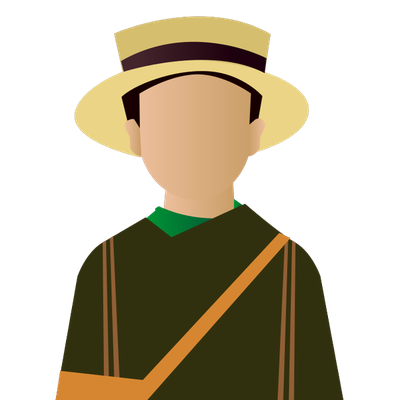
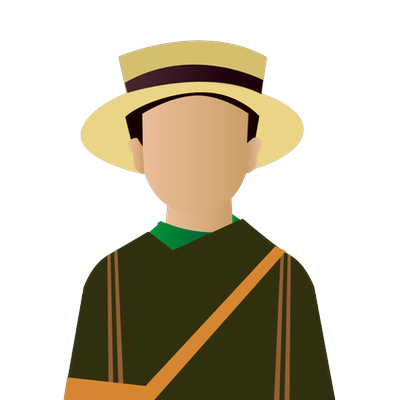
Avatares centrados y completamente visibles, fondo blanco
Claude-Session: https://claude.ai/code/session_01MyWHYMvAypienY2eVWBNv2

Changed region(s): [[0.12, 0.03, 0.87, 1.0]]

diff --git a/src/styles.css b/src/styles.css
@@ -80,7 +80,7 @@ h1, h2, h3, h4, p { margin: 0; }
 
 /* ---------- avatar ---------- */
 .avatar { display: inline-grid; place-items: center; border-radius: 50%; overflow: hidden; background: #fff; flex: none; }
-.avatar img { width: 100%; height: 100%; object-fit: cover; transform: scale(1.12) translateY(5%); }
+.avatar img { width: 100%; height: 100%; object-fit: contain; }
 .avatar.ring { box-shadow: 0 0 0 3px #fff, 0 2px 8px rgba(0,0,0,.2); }
 
 /* ---------- tab bar ---------- */
@@ -167,7 +167,7 @@ h1, h2, h3, h4, p { margin: 0; }
 .setup-strip { display: flex; gap: 10px; overflow-x: auto; padding: 10px 40%; scroll-snap-type: x mandatory; scrollbar-width: none; }
 .setup-strip::-webkit-scrollbar { display: none; }
 .av-opt { flex: none; width: 64px; height: 64px; border-radius: 50%; background: #fff; overflow: hidden; box-shadow: 0 0 0 2px #d9e4ee; scroll-snap-align: center; transition: transform .15s; }
-.av-opt img { width: 100%; height: 100%; object-fit: cover; transform: scale(1.12) translateY(5%); }
+.av-opt img { width: 100%; height: 100%; object-fit: contain; }
 .av-opt.on { box-shadow: 0 0 0 4px var(--h1); transform: scale(1.12); }
 .setup-fields { display: flex; flex-direction: column; gap: 12px; padding: 14px 22px; }
 .pfield { display: grid; grid-template-columns: 1fr auto; grid-template-rows: auto auto; text-align: left; background: #fff; border-radius: 16px; padding: 10px 16px; box-shadow: inset 0 0 0 2px #d9e4ee; color: var(--icon); align-items: center; }
